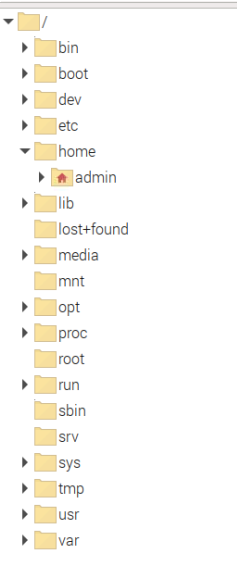
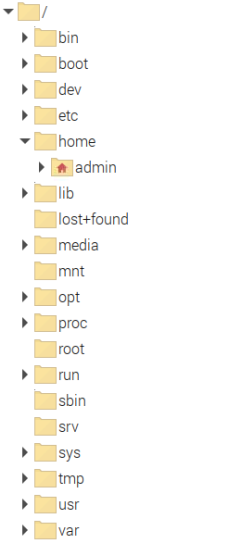
session 7

diff --git a/workup/session7/docs/operating-systems-structure.md b/workup/session7/docs/operating-systems-structure.md
@@ -26,8 +26,8 @@ He discovered the GNU project in 1991 and realised that the kernel he was develo
 The first Linux prototypes were publicly released in late 1991 and Version 1.0 was released on 14 March 1994.
 
 Linux gradually became increasingly popular with researchers and hobbyists and it increasingly appeared to become a viable `POSIX-compliant` alternative to paid-for operating systems
-An eco system of linux contributors emerged and companies and not-for-profit groups began to form which created adn supported `distributions` of Linux.
-Linux has since grown to be the major operating system powering the cloud and the internet.
+An eco system of linux contributors emerged and companies and not-for-profit groups began to form which created and supported `distributions` of Linux.
+Linux has since grown to be the major operating system powering the cloud and the Internet.
 
 Today there are [many Linux distributions](https://en.wikipedia.org/wiki/List_of_Linux_distributions) which can primarily be categorised based upon the packaging mechanism they use.
 
@@ -49,22 +49,62 @@ The figure below highlights some of the key components in the Linux operating sy
 
 ![alt text](../docs/images/linuxLayers.png "Figure linuxLayers.png")
 
-[Source wikipedia](https://en.wikipedia.org/wiki/User_space_and_kernel_space)
+[Source Wikipedia](https://en.wikipedia.org/wiki/User_space_and_kernel_space)
 
 A key aspect of Linux is that there are many choices which can be made as to which libraries are used to provide services in any particular layer.
 In principle, this makes a Linux based system much more flexible and adaptable than a windows system.
 
-## kernel
+## Kernel
 
 The Kernel is the minimal viable set of processes which provide the core operating system services.
 This includes the scheduler, device drivers, virtual memory management and file systems.
 
+Kernels are version controlled and all libraries and programs in a certain system can only be run against a specified range of kernel versions.
+
 ## File Systems and Security
 
 The Linux file system is organised hierarchically with (more or less) standard locations for different types of files.
-![alt text](../docs/images/linuxLayers.png "Figure linuxLayers.png")
+![alt text](../docs/images/filesystem.drawio.png "Figure filesystem.drawio.png")
 
-permissions
+Note that devices and processors are also modelled as part of the file system.
+
+### File permissions
+
+File permissions are core to the security model used by Linux systems.
+They determine who can execute files or read or write to files and directories on a system.
+
+All files have an owner which is a user registered in the system.
+When you create a file, it will be given you as the owner.
+ 
+The owner can be `root` if it is a system file.
+
+All owners are also in a group
+
+When you list a directory, you can see the contained files ownership and permissions.
+
+```
+admin@raspberrypi01:~/devel $ ls -all
+total 84
+drwxr-xr-x  6 admin admin  4096 Oct 22 12:14 .
+drwx------ 22 admin admin  4096 Oct 22 18:23 ..
+drwxr-xr-x  7 admin admin  4096 Oct 15 09:40 COM304_FOUNDATION_1
+-rw-r--r--  1 admin admin   883 Oct 21 12:34 test-input-script.sh
+```
+The first column lists the permissions for each file.
+These are organised as a directory bit `d` and three sets of three bits labelled `r`read, `w` write, `x` execute
+
+Each of the three `rwx` bits applies to owners, groups or all users.
+
+```
+directory   Owner Group All
+d           rwx   rwx   rwx
+```
+
+`Owners:` These permissions apply exclusively to the individuals who own the files or directories.
+
+`Groups:` Permissions can be assigned to a specific group of users, impacting only those within that particular group.
+
+`All Users:` These permissions apply universally to all users on the system.
 
 ## User Interface
 
@@ -74,20 +114,66 @@ The [X window system](https://en.wikipedia.org/wiki/X_Window_System) was release
 
 More recently, the [Wayland](https://wayland.freedesktop.org/) replacement for the X11 window system protocol has been making progress.
 
-Both X and Wayland are options for later Raspberry Pi'ss
+Both X and Wayland are options for later Raspberry Pi's
 
 ## Language Systems
+Multiple language systems can be present in a Linux system. 
 
+Often by default, only the `runtime` libraries for a given language are installed.
+These libraries are necessary to run a program written in the language but not to create a new program.
 
-
+If you want to create and compile new programs, then the languages development libraries must also be installed and possibly also the Kernel development libraries so that the language can make calls against the kernel.
 
 ## Boot System Structure
 
-BIOS / DOS / GRUB / Bootstrap
+An operating system is a complex program which needs a lot of processes and data structures to be set up before it is ready to run. 
+The process of starting up an operating system is called the `boot process`.
+
+PC motherboards have a BIOS (Basic Input Output System) which is a firmware program (i.e. on ROM) that will provide basic diagnostic and configuration functions without loading an operating system.
+The BIOS is responsible for looking at each of the disks in a pre-defiend order to find a small program called a `boot loader`.
+The BIOS also tells the operating system what hardware is installed on the board.
+
+Larger servers have a more sophisticated controller called an Intelligent Platform Management Interface, IPMI](https://en.wikipedia.org/wiki/Intelligent_Platform_Management_Interface) which is like a BIOS on steroids.
+An IPMI supports data-center automation and power management.
+Data Centre servers also support [PXE Boot interfaces](https://en.wikipedia.org/wiki/Preboot_Execution_Environment) which allows the server to boot an operating system supplied over the network rather than on a local disk.
+
+The `boot loader` loads the key kernel components from the operating system disk and then passes control to the loaded kernel which finishes starting up all of the required systems.
+
+The reason this is called a boot process is because it is like the computer is in the process of pulling itself up using its own boot straps
+ 
+A common boot loader used in most Linux distributions is called [GRUB](https://www.gnu.org/software/grub/).
+But this is not used on the Raspberry Pi.
+
+Note that the Raspberry PI is a very small device and does not have a BIOS. 
+It has an unusual bespoke boot process which involves first loading the boot program from the SD Card into the Graphics Processing Uni. 
+If you are interested see [Raspberry PI Boot Process](https://stackoverflow.com/questions/16317623/how-does-raspberry-pis-boot-loader-work)
 
 ## Key Shell Commands
 
+Users can interact with Linux using a terminal session which runs the `bourne shell`
+It is worth taking time to become familiar with some of the key terminal commands:
+
+| command | purpose                                                  |
+|:--------|----------------------------------------------------------|
+|  ls     | Lists all files in a directory<BR>ls -all shows permissions  |
+|  df -h  | Shows how much disk has been used                     |
+|  vi     | basic editor which is on most linux systems   |
+|  nano   | easier to use editor                                 |
+|  pwd    | present working directory - shows the current directory|
+|  top    | shows top processes and memory allocation on teh system |
+|  ps     | shows processes belonging to you<BR> ps -aux shows all processes on the system<br>ps -aux | grep 'process name' finds a particular process |
+|ifconfig| shows all ethernet interfaces adn IP addresses |
+|route -n | shows the routing table |
+| sudo | performs a command with root privileges if you are in the sudoers group  |
+|mkdir| creates a directory |
+| rm | removes a file<br>rm -R removes a directory and its contents |
+
+Here is a useful [command line for beginners tutorial](https://ubuntu.com/tutorials/command-line-for-beginners#1-overview)
+
 ## Package Management
+
+Package manamgent is a key function on operating systems. 
+THe following exercise explains package managment and takes you through installing the Apache 2 web server on your Raspberry PI.
 
 Exercise  [Installing Apache Web Server](../docs/package-management-apache.md)
 
